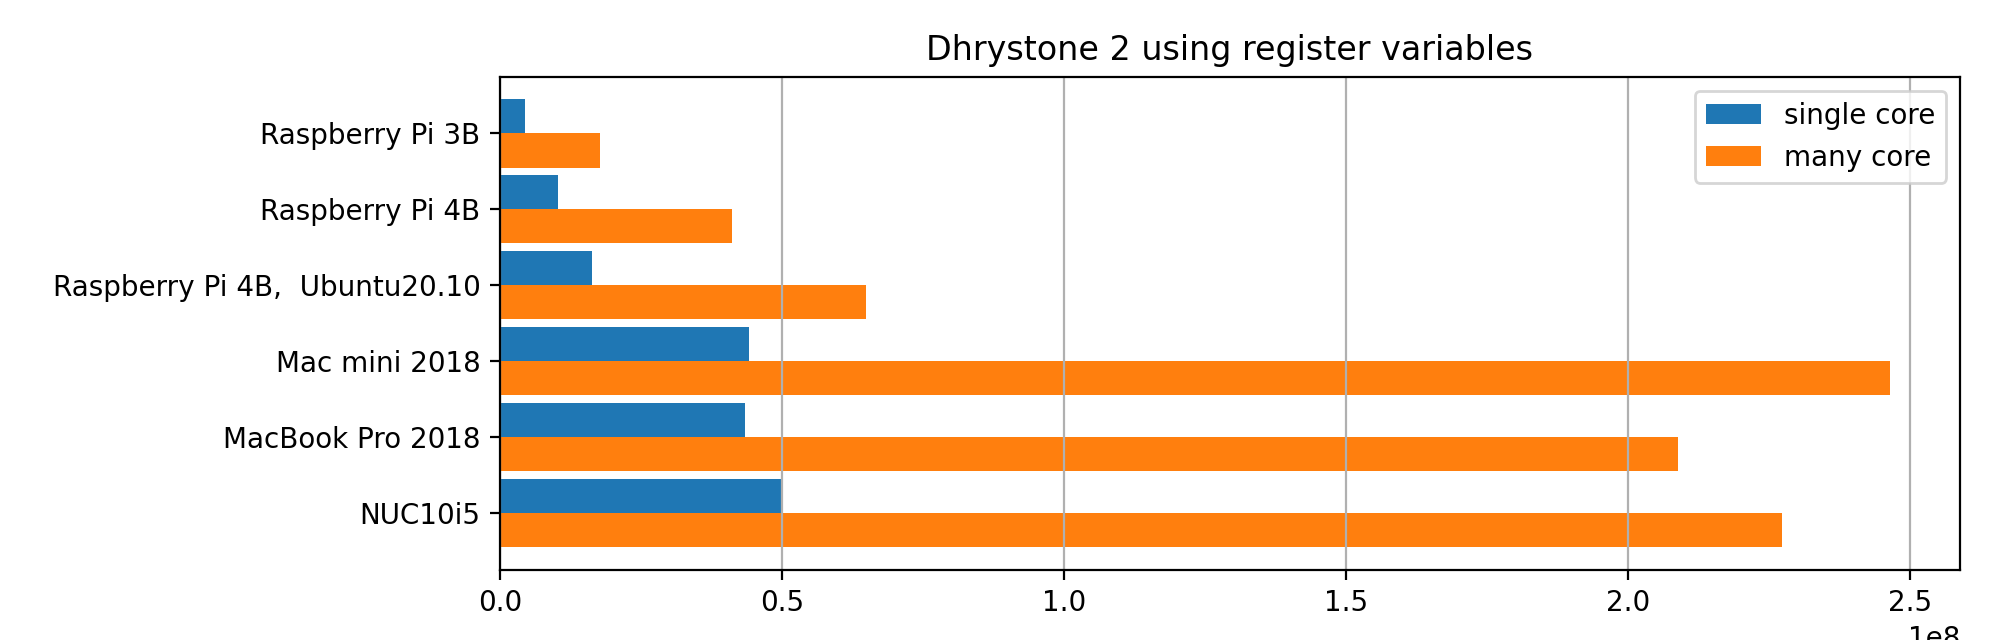
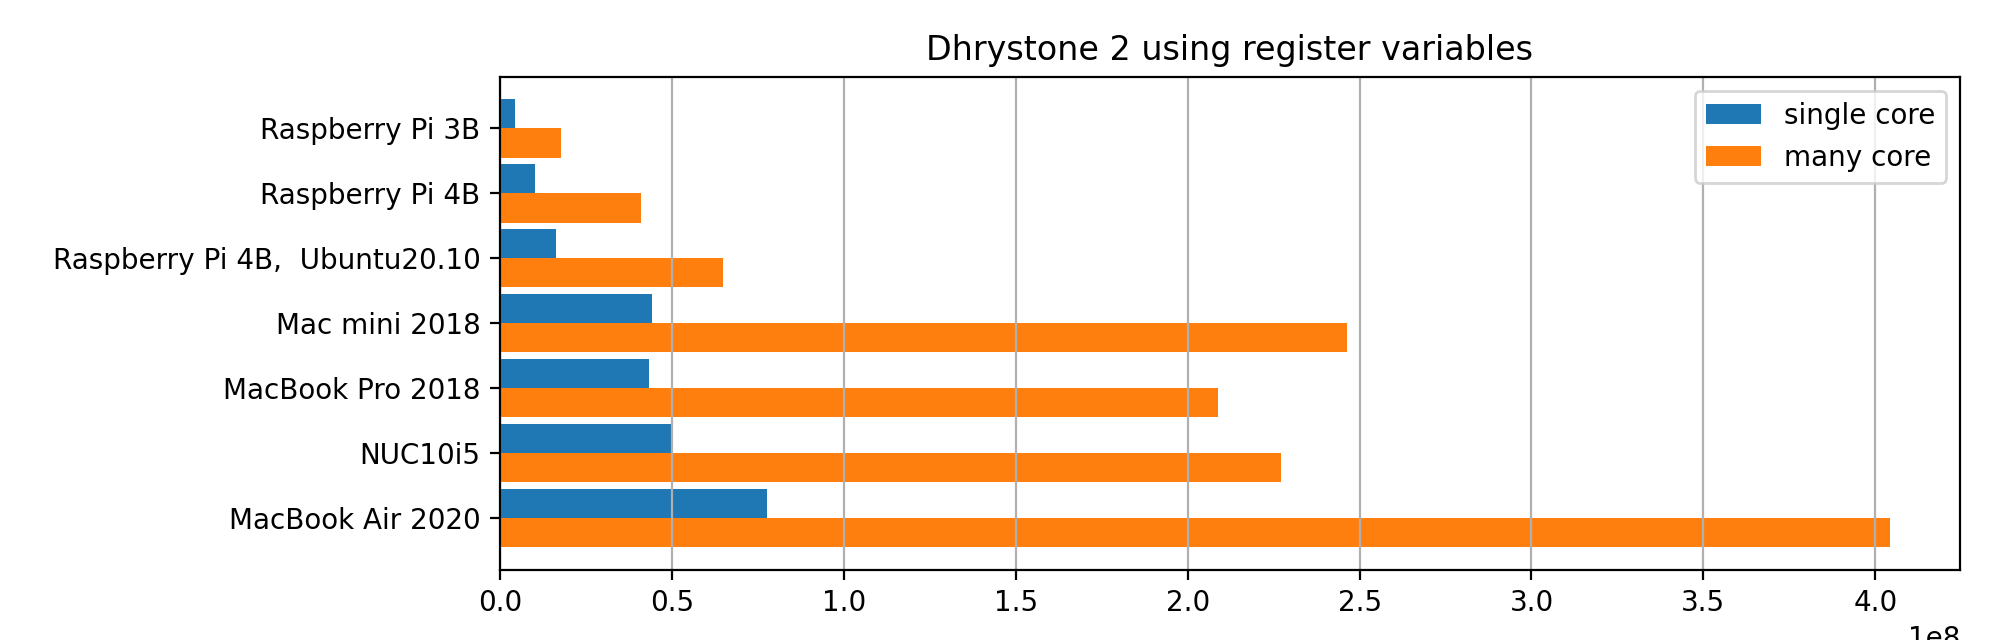
Add MacBook Air 2020 (M1)

diff --git a/MBA2020-2020-12-04-01.html b/MBA2020-2020-12-04-01.html
@@ -1,0 +1,364 @@
+<!DOCTYPE HTML PUBLIC "-//W3C//DTD HTML 4.01 Transitional//EN"
+"http://www.w3.org/TR/html4/loose.dtd">
+<html>
+<head>
+  <meta http-equiv="Content-Type" content="text/html; charset=utf-8">
+  <meta name="keywords" content="linux, benchmarks, benchmarking">
+  <title>Benchmark of MacBook Air 2020 / Darwin on 金 12 04 2020</title>
+  <style type="text/css">
+    table {
+      margin: 1em 1em 1em 0;
+      background: #f9f9f9;
+      border: 1px #aaaaaa solid;
+      border-collapse: collapse;
+    }
+
+    table th, table td {
+      border: 1px #aaaaaa solid;
+      padding: 0.2em;
+    }
+
+    table th {
+      background: #f2f2f2;
+      text-align: center;
+    }
+  </style>
+</head>
+<body>
+<h2>Benchmark of MacBook Air 2020 / Darwin on 金 12 04 2020</h2>
+<p><b>BYTE UNIX Benchmarks (Version 5.1.3)</b></p>
+
+<h3>Test System Information</h3>
+<p><table>
+<tr>
+   <td><b>System:</b></td>
+   <td colspan=2>MacBook Air 2020: Darwin</td>
+</tr><tr>
+   <td><b>OS:</b></td>
+   <td colspan=2>Darwin -- 20.1.0 -- Darwin Kernel Version 20.1.0: Sun Oct 18 15:32:00 PDT 2020; root:xnu-7195.41.8~9/RELEASE_ARM64_T8101</td>
+</tr><tr>
+   <td><b>Machine:</b></td>
+   <td colspan=2>arm64: unknown</td>
+</tr><tr>
+   <td><b>Language:</b></td>
+   <td colspan=2>en_US.utf8 (charmap="US-ASCII", collate=)</td>
+</tr>
+<tr>
+   <td rowspan=8><b>CPUs:</b></td>
+   <td><b>0:</b></td>
+   <td>Apple processor (0.0 bogomips)<br/>
+       </td>
+</tr>
+<tr>
+   <td><b>1:</b></td>
+   <td>Apple processor (0.0 bogomips)<br/>
+       </td>
+</tr>
+<tr>
+   <td><b>2:</b></td>
+   <td>Apple processor (0.0 bogomips)<br/>
+       </td>
+</tr>
+<tr>
+   <td><b>3:</b></td>
+   <td>Apple processor (0.0 bogomips)<br/>
+       </td>
+</tr>
+<tr>
+   <td><b>4:</b></td>
+   <td>Apple processor (0.0 bogomips)<br/>
+       </td>
+</tr>
+<tr>
+   <td><b>5:</b></td>
+   <td>Apple processor (0.0 bogomips)<br/>
+       </td>
+</tr>
+<tr>
+   <td><b>6:</b></td>
+   <td>Apple processor (0.0 bogomips)<br/>
+       </td>
+</tr>
+<tr>
+   <td><b>7:</b></td>
+   <td>Apple processor (0.0 bogomips)<br/>
+       </td>
+</tr>
+<tr>
+   <td><b>Uptime:</b></td>
+   <td colspan=2>5:55  up 1 day, 9 mins, 4 users, load averages: 0.80 1.25 1.60; runlevel 3</td>
+</tr>
+</table></p>
+
+<p><hr/></p>
+<h3>Benchmark Run: 8 CPUs; 1 parallel process</h3>
+<p>Time: 05:55:46 - 06:29:32; 33m 46s</p>
+
+<h4>System Benchmarks</h4>
+<p><table width="100%">
+<tr>
+   <th align=left>Test</th>
+   <th align=right>Score</th>
+   <th align=left>Unit</th>
+   <th align=right>Time</th>
+   <th align=right>Iters.</th>
+   <th align=right>Baseline</th>
+   <th align=right>Index</th>
+</tr>
+<tr>
+   <td><b>Dhrystone 2 using register variables</b></td>
+   <td align=right><tt>77546264.4</tt></td>
+   <td align=left><tt>lps</tt></td>
+   <td align=right><tt>10.0 s</tt></td>
+   <td align=right><tt>7</tt></td>
+   <td align=right><tt>116700.0</tt></td>
+   <td align=right><tt>6644.9</tt></td>
+</tr>
+<tr>
+   <td><b>Double-Precision Whetstone</b></td>
+   <td align=right><tt>7375.6</tt></td>
+   <td align=left><tt>MWIPS</tt></td>
+   <td align=right><tt>10.0 s</tt></td>
+   <td align=right><tt>7</tt></td>
+   <td align=right><tt>55.0</tt></td>
+   <td align=right><tt>1341.0</tt></td>
+</tr>
+<tr>
+   <td><b>Execl Throughput</b></td>
+   <td align=right><tt>1592.6</tt></td>
+   <td align=left><tt>lps</tt></td>
+   <td align=right><tt>29.9 s</tt></td>
+   <td align=right><tt>2</tt></td>
+   <td align=right><tt>43.0</tt></td>
+   <td align=right><tt>370.4</tt></td>
+</tr>
+<tr>
+   <td><b>File Copy 1024 bufsize 2000 maxblocks</b></td>
+   <td align=right><tt>1195180.9</tt></td>
+   <td align=left><tt>KBps</tt></td>
+   <td align=right><tt>30.0 s</tt></td>
+   <td align=right><tt>2</tt></td>
+   <td align=right><tt>3960.0</tt></td>
+   <td align=right><tt>3018.1</tt></td>
+</tr>
+<tr>
+   <td><b>File Copy 256 bufsize 500 maxblocks</b></td>
+   <td align=right><tt>277248.7</tt></td>
+   <td align=left><tt>KBps</tt></td>
+   <td align=right><tt>30.0 s</tt></td>
+   <td align=right><tt>2</tt></td>
+   <td align=right><tt>1655.0</tt></td>
+   <td align=right><tt>1675.2</tt></td>
+</tr>
+<tr>
+   <td><b>File Copy 4096 bufsize 8000 maxblocks</b></td>
+   <td align=right><tt>3099940.2</tt></td>
+   <td align=left><tt>KBps</tt></td>
+   <td align=right><tt>30.0 s</tt></td>
+   <td align=right><tt>2</tt></td>
+   <td align=right><tt>5800.0</tt></td>
+   <td align=right><tt>5344.7</tt></td>
+</tr>
+<tr>
+   <td><b>Pipe Throughput</b></td>
+   <td align=right><tt>2662682.9</tt></td>
+   <td align=left><tt>lps</tt></td>
+   <td align=right><tt>10.1 s</tt></td>
+   <td align=right><tt>7</tt></td>
+   <td align=right><tt>12440.0</tt></td>
+   <td align=right><tt>2140.4</tt></td>
+</tr>
+<tr>
+   <td><b>Pipe-based Context Switching</b></td>
+   <td align=right><tt>421240.1</tt></td>
+   <td align=left><tt>lps</tt></td>
+   <td align=right><tt>10.1 s</tt></td>
+   <td align=right><tt>7</tt></td>
+   <td align=right><tt>4000.0</tt></td>
+   <td align=right><tt>1053.1</tt></td>
+</tr>
+<tr>
+   <td><b>Process Creation</b></td>
+   <td align=right><tt>4314.0</tt></td>
+   <td align=left><tt>lps</tt></td>
+   <td align=right><tt>30.2 s</tt></td>
+   <td align=right><tt>2</tt></td>
+   <td align=right><tt>126.0</tt></td>
+   <td align=right><tt>342.4</tt></td>
+</tr>
+<tr>
+   <td><b>Shell Scripts (1 concurrent)</b></td>
+   <td align=right><tt>8950.3</tt></td>
+   <td align=left><tt>lpm</tt></td>
+   <td align=right><tt>60.0 s</tt></td>
+   <td align=right><tt>2</tt></td>
+   <td align=right><tt>42.4</tt></td>
+   <td align=right><tt>2110.9</tt></td>
+</tr>
+<tr>
+   <td><b>Shell Scripts (8 concurrent)</b></td>
+   <td align=right><tt>2895.2</tt></td>
+   <td align=left><tt>lpm</tt></td>
+   <td align=right><tt>60.0 s</tt></td>
+   <td align=right><tt>2</tt></td>
+   <td align=right><tt>6.0</tt></td>
+   <td align=right><tt>4825.3</tt></td>
+</tr>
+<tr>
+   <td><b>System Call Overhead</b></td>
+   <td align=right><tt>1734147.0</tt></td>
+   <td align=left><tt>lps</tt></td>
+   <td align=right><tt>10.1 s</tt></td>
+   <td align=right><tt>7</tt></td>
+   <td align=right><tt>15000.0</tt></td>
+   <td align=right><tt>1156.1</tt></td>
+</tr>
+<tr>
+   <td colspan=6><b>System Benchmarks Index Score:</b></td>
+   <td align=right><b><tt>1747.4</tt></b></td>
+</tr>
+</table></p>
+
+<p><hr/></p>
+<h3>Benchmark Run: 8 CPUs; 8 parallel processes</h3>
+<p>Time: 06:29:32 - 07:00:28; 30m 56s</p>
+
+<h4>System Benchmarks</h4>
+<p><table width="100%">
+<tr>
+   <th align=left>Test</th>
+   <th align=right>Score</th>
+   <th align=left>Unit</th>
+   <th align=right>Time</th>
+   <th align=right>Iters.</th>
+   <th align=right>Baseline</th>
+   <th align=right>Index</th>
+</tr>
+<tr>
+   <td><b>Dhrystone 2 using register variables</b></td>
+   <td align=right><tt>404404535.2</tt></td>
+   <td align=left><tt>lps</tt></td>
+   <td align=right><tt>10.0 s</tt></td>
+   <td align=right><tt>7</tt></td>
+   <td align=right><tt>116700.0</tt></td>
+   <td align=right><tt>34653.3</tt></td>
+</tr>
+<tr>
+   <td><b>Double-Precision Whetstone</b></td>
+   <td align=right><tt>45923.2</tt></td>
+   <td align=left><tt>MWIPS</tt></td>
+   <td align=right><tt>10.0 s</tt></td>
+   <td align=right><tt>7</tt></td>
+   <td align=right><tt>55.0</tt></td>
+   <td align=right><tt>8349.7</tt></td>
+</tr>
+<tr>
+   <td><b>Execl Throughput</b></td>
+   <td align=right><tt>6938.8</tt></td>
+   <td align=left><tt>lps</tt></td>
+   <td align=right><tt>29.8 s</tt></td>
+   <td align=right><tt>2</tt></td>
+   <td align=right><tt>43.0</tt></td>
+   <td align=right><tt>1613.7</tt></td>
+</tr>
+<tr>
+   <td><b>File Copy 1024 bufsize 2000 maxblocks</b></td>
+   <td align=right><tt>806349.4</tt></td>
+   <td align=left><tt>KBps</tt></td>
+   <td align=right><tt>30.0 s</tt></td>
+   <td align=right><tt>2</tt></td>
+   <td align=right><tt>3960.0</tt></td>
+   <td align=right><tt>2036.2</tt></td>
+</tr>
+<tr>
+   <td><b>File Copy 256 bufsize 500 maxblocks</b></td>
+   <td align=right><tt>226528.3</tt></td>
+   <td align=left><tt>KBps</tt></td>
+   <td align=right><tt>30.0 s</tt></td>
+   <td align=right><tt>2</tt></td>
+   <td align=right><tt>1655.0</tt></td>
+   <td align=right><tt>1368.8</tt></td>
+</tr>
+<tr>
+   <td><b>File Copy 4096 bufsize 8000 maxblocks</b></td>
+   <td align=right><tt>2781791.7</tt></td>
+   <td align=left><tt>KBps</tt></td>
+   <td align=right><tt>30.0 s</tt></td>
+   <td align=right><tt>2</tt></td>
+   <td align=right><tt>5800.0</tt></td>
+   <td align=right><tt>4796.2</tt></td>
+</tr>
+<tr>
+   <td><b>Pipe Throughput</b></td>
+   <td align=right><tt>1352834.7</tt></td>
+   <td align=left><tt>lps</tt></td>
+   <td align=right><tt>10.0 s</tt></td>
+   <td align=right><tt>7</tt></td>
+   <td align=right><tt>12440.0</tt></td>
+   <td align=right><tt>1087.5</tt></td>
+</tr>
+<tr>
+   <td><b>Pipe-based Context Switching</b></td>
+   <td align=right><tt>485291.5</tt></td>
+   <td align=left><tt>lps</tt></td>
+   <td align=right><tt>10.0 s</tt></td>
+   <td align=right><tt>7</tt></td>
+   <td align=right><tt>4000.0</tt></td>
+   <td align=right><tt>1213.2</tt></td>
+</tr>
+<tr>
+   <td><b>Process Creation</b></td>
+   <td align=right><tt>14479.3</tt></td>
+   <td align=left><tt>lps</tt></td>
+   <td align=right><tt>30.0 s</tt></td>
+   <td align=right><tt>2</tt></td>
+   <td align=right><tt>126.0</tt></td>
+   <td align=right><tt>1149.1</tt></td>
+</tr>
+<tr>
+   <td><b>Shell Scripts (1 concurrent)</b></td>
+   <td align=right><tt>23604.4</tt></td>
+   <td align=left><tt>lpm</tt></td>
+   <td align=right><tt>60.0 s</tt></td>
+   <td align=right><tt>2</tt></td>
+   <td align=right><tt>42.4</tt></td>
+   <td align=right><tt>5567.1</tt></td>
+</tr>
+<tr>
+   <td><b>Shell Scripts (8 concurrent)</b></td>
+   <td align=right><tt>3219.3</tt></td>
+   <td align=left><tt>lpm</tt></td>
+   <td align=right><tt>60.1 s</tt></td>
+   <td align=right><tt>2</tt></td>
+   <td align=right><tt>6.0</tt></td>
+   <td align=right><tt>5365.6</tt></td>
+</tr>
+<tr>
+   <td><b>System Call Overhead</b></td>
+   <td align=right><tt>1326952.4</tt></td>
+   <td align=left><tt>lps</tt></td>
+   <td align=right><tt>10.0 s</tt></td>
+   <td align=right><tt>7</tt></td>
+   <td align=right><tt>15000.0</tt></td>
+   <td align=right><tt>884.6</tt></td>
+</tr>
+<tr>
+   <td colspan=6><b>System Benchmarks Index Score:</b></td>
+   <td align=right><b><tt>2817.3</tt></b></td>
+</tr>
+</table></p>
+
+<p><hr/></p>
+<div><b>No Warranties:</b> This information is provided free of charge and "as
+is" without any warranty, condition, or representation of any kind,
+either express or implied, including but not limited to, any warranty
+respecting non-infringement, and the implied warranties of conditions
+of merchantability and fitness for a particular purpose. All logos or
+trademarks on this site are the property of their respective owner. In
+no event shall the author be liable for any
+direct, indirect, special, incidental, consequential or other damages
+howsoever caused whether arising in contract, tort, or otherwise,
+arising out of or in connection with the use or performance of the
+information contained on this web site.</div>
+</body>
+</html>

diff --git a/README.md b/README.md
@@ -6,8 +6,8 @@
 - [Mac mini 2018](https://htmlpreview.github.io/?https://github.com/kose/benchmark-UnixBench/blob/main/mini2018-2020-11-15-01.html) : Core i5-8500B, 6コア, 3.00GHz
 - [MacBook Pro 2018](https://htmlpreview.github.io/?https://github.com/kose/benchmark-UnixBench/blob/main/MBP2018-2020-11-16-01.html) : Core i5-8259, 8コア, 2.30GHz
 - [NUC10i5](https://htmlpreview.github.io/?https://github.com/kose/benchmark-UnixBench/blob/main/nuc10i5-2020-11-15-01.html) : Core i5-10210U, 8コア, 1.60GHz
+- [MacBook Air 2020](https://htmlpreview.github.io/?https://github.com/kose/benchmark-UnixBench/blob/main/MBA2020-2020-12-04-01.html) : Apple Silicon (M1), 8コア
 
-![table](images/table.png)
 ![0](images/0.png)
 ![1](images/1.png)
 ![2](images/2.png)
